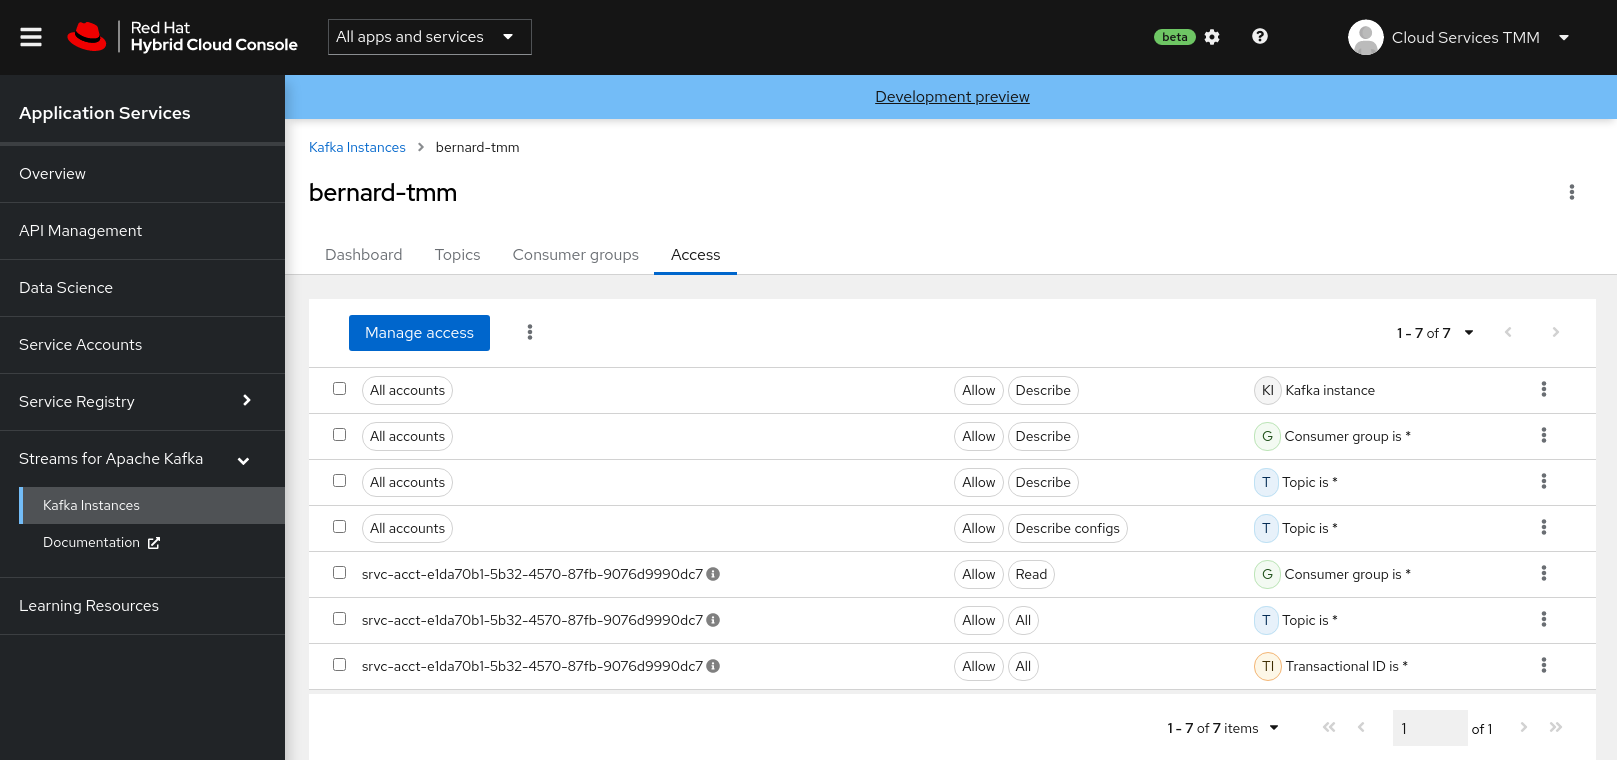
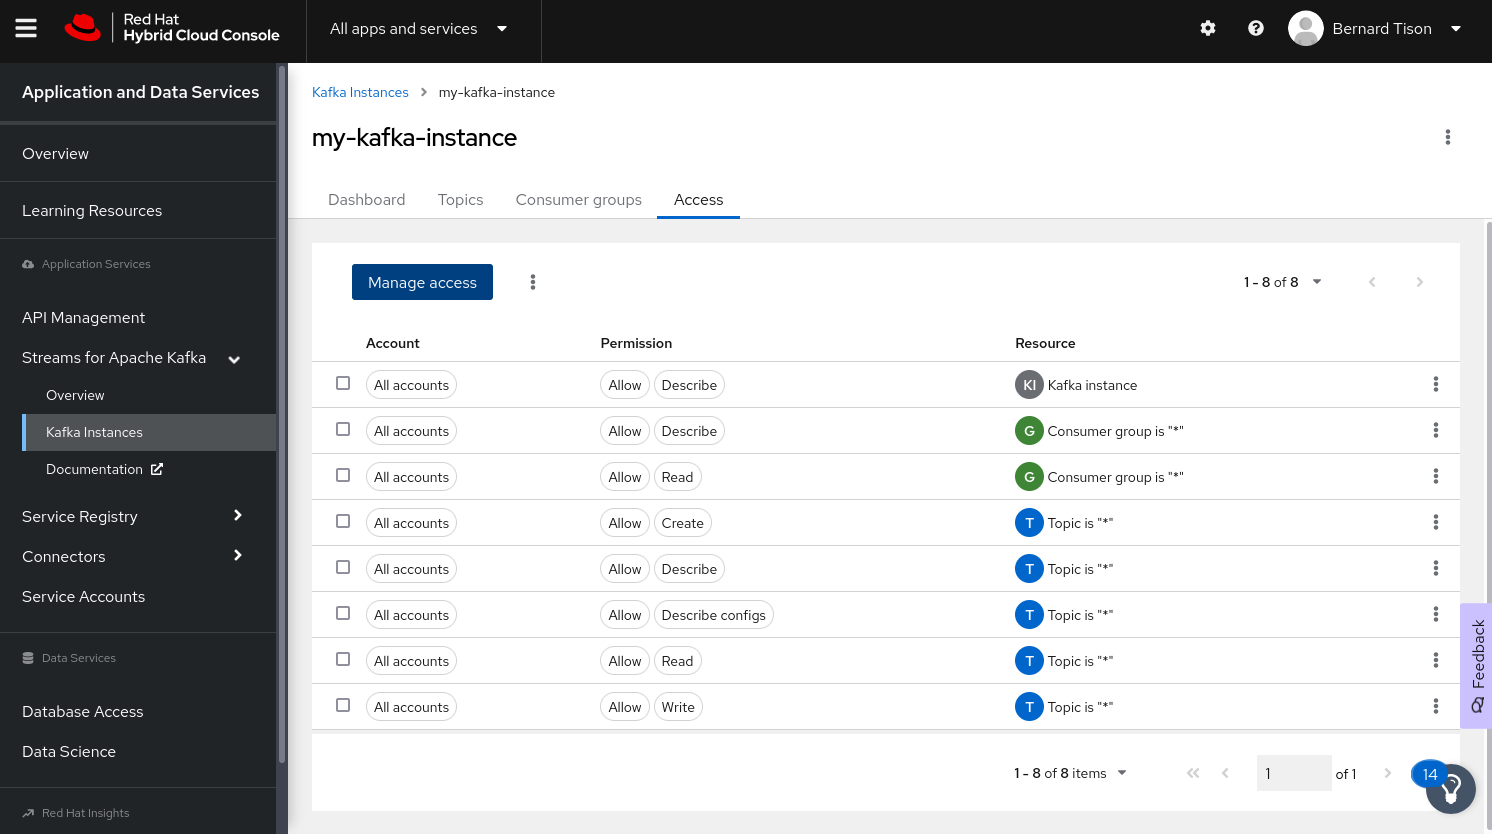
[CI] Publish Documentation for 9201219c16f93f75ab80bcb7a77d2ce879e0534c - 9201219c16f93f75ab80bcb7a77d2ce879e0534c 🚀

diff --git a/managed-kafka-workshop/main/01-getting-started.html b/managed-kafka-workshop/main/01-getting-started.html
@@ -191,10 +191,10 @@
 <p>Go to <a href="https://console.redhat.com">console.redhat.com</a> and log in with your Red Hat account.</p>
 </li>
 <li>
-<p>On the <a href="https://console.redhat.com">console.redhat.com</a> landing page, select <strong>Application Services</strong> from the menu on the left.</p>
+<p>On the <a href="https://console.redhat.com">console.redhat.com</a> landing page, select <strong>Application and Data Services</strong> from the menu on the left.</p>
 </li>
 <li>
-<p>On the Application Services landing page, select <strong>Streams for Apache Kafka → Kafka Instances</strong>.</p>
+<p>On the Application and Data Services landing page, select <strong>Streams for Apache Kafka → Kafka Instances</strong>.</p>
 <div class="imageblock">
 <div class="content">
 <img src="_images/rhosak-kafka-instances.png" alt="rhosak kafka instances">
@@ -213,7 +213,7 @@
 </div>
 </li>
 <li>
-<p>When the instance <em>Status</em> is <em>Ready</em>, you can start using the Kafka instance. You can use the options icon (three vertical dots) to view, connect to, or delete the instance as needed.</p>
+<p>When the instance <em>Status</em> is <code>Ready</code>, you can start using the Kafka instance. You can use the options icon (three vertical dots) to view, connect to, or delete the instance as needed.</p>
 </li>
 </ol>
 </div>
@@ -288,6 +288,20 @@
 <div class="paragraph">
 <p>After you create a service account to connect to a Kafka instance, you must also set the appropriate level of access for that new account in the Access Control List (ACL) of the Kafka instance. Streams for Apache Kafka uses ACLs provided by Kafka that enable you to manage how other user accounts and service accounts are permitted to interact with the Kafka resources that you create.</p>
 </div>
+<div class="admonitionblock note">
+<table>
+<tr>
+<td class="icon">
+<i class="fa icon-note" title="Note"></i>
+</td>
+<td class="content">
+<div class="paragraph">
+<p>For this workshop, you will set permissions for all accounts at once. The reason behind this is that the Service Binding functionality we are going to use later in the workshop to bind applications to the Kafka instance will create a new service account. By using wildcard permissions, you ensure that this service account has the required permissions to connect to the Kafka instance.</p>
+</div>
+</td>
+</tr>
+</table>
+</div>
 <div class="olist arabic">
 <ol class="arabic">
 <li>
@@ -302,15 +316,15 @@
 </div>
 </li>
 <li>
-<p>Click <strong>Manage access</strong>, use the <strong>Account</strong> drop-down menu to select the service account that you previously created, and click <strong>Next</strong>.</p>
+<p>Click <strong>Manage access</strong>, use the <strong>Account</strong> drop-down menu to select to select <strong>All accounts</strong>, and click <strong>Next</strong>.</p>
 </li>
 <li>
-<p>Under <strong>Assign Permissions</strong>, use the drop-down menus to set the permissions shown in the following table for this service account. Click <strong>Add</strong> to add each new resource permission.</p>
+<p>Select the <strong>Consume from a topic</strong> and <strong>Produce to a topic</strong> from the <strong>Task-based permission</strong> possibilities. Set the topic and consumer group names to <code>is</code> and <code>*</code>.</p>
 <div class="paragraph">
-<p>These permissions enable applications associated with the service account to create and delete topics in the instance, to produce and consume messages in any topic in the instance, and to use any consumer group and any producer.</p>
+<p>These permissions enable applications associated with any service account to create topics in the instance, to produce and consume messages in any topic in the instance, and to use any consumer group.</p>
 </div>
 <table class="tableblock frame-all grid-all stretch">
-<caption class="title">Table 1. Example ACL permissions for a new service account</caption>
+<caption class="title">Table 1. Example ACL permissions for all accounts</caption>
 <colgroup>
 <col style="width: 25%;">
 <col style="width: 25%;">
@@ -328,7 +342,7 @@
 <td class="tableblock halign-left valign-top"><p class="tableblock"><code>Topic</code></p></td>
 <td class="tableblock halign-left valign-top"><p class="tableblock"><code>Is</code> = <code>*</code></p></td>
 <td class="tableblock halign-left valign-top"><p class="tableblock"><code>Allow</code></p></td>
-<td class="tableblock halign-left valign-top"><p class="tableblock"><code>All</code></p></td>
+<td class="tableblock halign-left valign-top"><p class="tableblock"><code>Read</code>,<code>Write</code>,<code>Create</code>,<code>Describe</code></p></td>
 </tr>
 <tr>
 <td class="tableblock halign-left valign-top"><p class="tableblock"><code>Consumer group</code></p></td>
@@ -336,22 +350,16 @@
 <td class="tableblock halign-left valign-top"><p class="tableblock"><code>Allow</code></p></td>
 <td class="tableblock halign-left valign-top"><p class="tableblock"><code>Read</code></p></td>
 </tr>
-<tr>
-<td class="tableblock halign-left valign-top"><p class="tableblock"><code>Transactional ID</code></p></td>
-<td class="tableblock halign-left valign-top"><p class="tableblock"><code>Is</code> = <code>*</code></p></td>
-<td class="tableblock halign-left valign-top"><p class="tableblock"><code>Allow</code></p></td>
-<td class="tableblock halign-left valign-top"><p class="tableblock"><code>All</code></p></td>
-</tr>
 </tbody>
 </table>
+<div class="paragraph">
+<p>Click <strong>Save</strong>.</p>
+</div>
 <div class="imageblock">
 <div class="content">
 <img src="_images/rhosak-access-serviceaccount.png" alt="rhosak access serviceaccount">
 </div>
 </div>
-</li>
-<li>
-<p>After you add these permissions for the service account, click <strong>Save</strong> to finish.</p>
 </li>
 </ol>
 </div>
@@ -397,7 +405,7 @@ You can increase the number of partitions later, but you cannot decrease them.
 <p><strong>Message retention</strong>: Set the message retention time and size to the relevant value and increment. The default retention time is set to <code>A week</code> and the retention size to <code>Unlimited</code>. Message retention time is the amount of time that messages are retained in a topic before they are deleted or compacted, depending on the cleanup policy. Retention size is the maximum total size of all log segments in a partition before they are deleted or compacted.</p>
 </li>
 <li>
-<p><strong>Replicas</strong>: For this release of Streams for Apache Kafka, the replicas are preconfigured. The number of partition replicas for the topic is set to <code>3</code> and the minimum number of follower replicas that must be in sync with a partition leader is set to <code>2</code>. Replicas are copies of partitions in a topic. Partition replicas are distributed over multiple brokers in the cluster to ensure topic availability if a broker fails. When a follower replica is in sync with a partition leader, the follower replica can become the new partition leader if needed.</p>
+<p><strong>Replicas</strong>: For this release of Streams for Apache Kafka, the replicas are preconfigured. On a trial Kafka instance, whichg only consists of one broker, the number of partition replicas for the topic and the minimum number of follower replicas that must be in sync with a partition leader are set to <code>1</code>. Replicas are copies of partitions in a topic. Partition replicas are distributed over multiple brokers in the cluster to ensure topic availability if a broker fails. When a follower replica is in sync with a partition leader, the follower replica can become the new partition leader if needed.</p>
 </li>
 </ul>
 </div>

diff --git a/managed-kafka-workshop/main/02-using-kcat.html b/managed-kafka-workshop/main/02-using-kcat.html
@@ -248,7 +248,7 @@ Click the <strong>Start using your sandbox</strong> button to launch the sandbox
 </div>
 </li>
 <li>
-<p>In the <strong>Image name from external registry</strong> field, enter: <code>quay.io/rhosak/rhoas-tools</code>.</p>
+<p>In the <strong>Image name from external registry</strong> field, enter: <code>quay.io/rhoas/tools</code>.</p>
 </li>
 <li>
 <p>In the <strong>Runtime icon</strong> field, select <code>openshift</code>.</p>

diff --git a/managed-kafka-workshop/main/04-bind-quarkus-application.html b/managed-kafka-workshop/main/04-bind-quarkus-application.html
@@ -444,7 +444,7 @@ With the binding created, your Quarkus application will now redeploy. Go back to
 </ol>
 </div>
 <div class="paragraph">
-<p>You have succesfully connected a Quarkus application to a Kafka instance of OpenShift Streams for Apache Kafka using Servie Binding.</p>
+<p>You have successfully connected a Quarkus application to a Kafka instance of OpenShift Streams for Apache Kafka using Service Binding.</p>
 </div>
 </div>
 </div>
